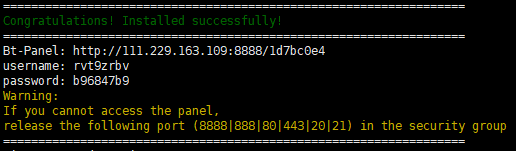
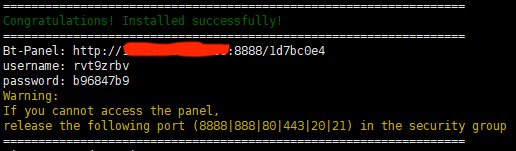
修改了 CentOS7搭Nextcloud 文章图片存在个人隐私的问题

Changed region(s): [[0.2171, 0.2649, 0.4651, 0.3974]]

diff --git a/notes/nextcloud_in_centos7/index.html b/notes/nextcloud_in_centos7/index.html
@@ -326,11 +326,11 @@
 <p><img src="Baota-Panel-Cmd.png" alt="宝塔面板命令行"></p>
 <br>
 <p><strong>2. 进入宝塔面板配置网站环境</strong></p>
-<p>在浏览器访问：http://111.229.163.109:8888/1d7bc0e4</p>
+<p>在浏览器访问：http://[YOUR_IP_ADDRESS]:8888/1d7bc0e4</p>
 <p>输入上面的用户名与密码进行登录</p>
 <p><img src="Baota-Panel-Web-Login.png" alt="宝塔面板登录界面"></p>
 <br>
-<p>进入宝塔面板后选择以上的 LNMP 环境的套件版本进行安装</p>
+<p>进入宝塔面板后选择以上的 <code>LNMP</code> 环境的套件版本进行安装</p>
 <p><img src="Baota-Panel-Web-LNMP-Install.png" alt="安装套件"></p>
 <br>
 <p>等待安装完成，完成后消息盒子任务列表会清空</p>
@@ -342,13 +342,13 @@
 <p>如果没有域名则填服务器IP地址</p>
 <br>
 <p><strong>4. 安装 Nextcloud</strong></p>
-<p>进入网站目录，删除 /www/wwwroot/nextcloud/ 目录下的四个文件</p>
+<p>进入网站目录，删除 <code>/www/wwwroot/nextcloud/</code> 目录下的四个文件</p>
 <p><img src="Baota-Panel-Web-InitFiles-Delete.png" alt="删除文件"></p>
 <br>
-<p>下载 Nextcloud 17.0.0 压缩文件并上传</p>
+<p>下载 <code>Nextcloud 17.0.0</code> 压缩文件并上传</p>
 <p><img src="Baota-Panel-Web-Nextcloud-Upload.png" alt="上传压缩文件"></p>
 <br>
-<p>上传完成后进行解压，解压后可能会覆盖 nextcloud 目录，因为压缩文件自带了一个 nextcloud 目录</p>
+<p>上传完成后进行解压，解压后可能会覆盖 <code>nextcloud</code> 目录，因为压缩文件自带了一个 <code>nextcloud</code> 目录</p>
 <p><img src="Baota-Panel-Web-Nextcloud-Unzip.png" alt="解压"></p>
 <br>
 <p><strong>5. 网盘配置初始化</strong></p>
